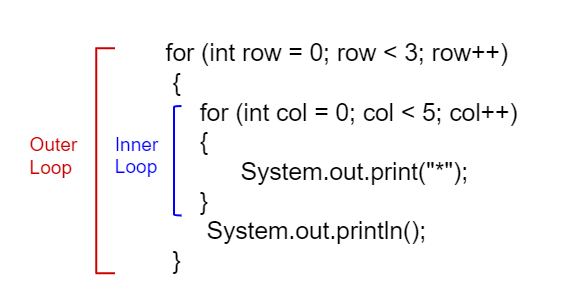
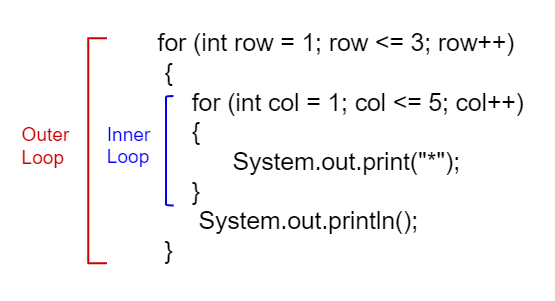
small fixes

Changed region(s): [[0.0306, 0.0897, 0.9495, 0.897], [0.3982, 0.5083, 0.827, 0.598], [0.2757, 0.8073, 0.3369, 0.897]]

diff --git a/_sources/Unit7-ArrayList/topic-7-6-sorting.rst b/_sources/Unit7-ArrayList/topic-7-6-sorting.rst
@@ -285,7 +285,7 @@ To see this executing using the Java Visualizer click on the following `Insertio
         }
       }
 
-You can step through the code above by clicking on the following `Ex-12-5-2 <http://cscircles.cemc.uwaterloo.ca/java_visualize/#code=import+java.util.Arrays%3B%0A++%0A++public+class+SortTest%0A++%7B%0A+++++public+static+void+insertionSort(int%5B%5D+elements)+%0A+++++%7B%0A++++++++for+(int+j+%3D+1%3B+j+%3C+elements.length+-+1%3B+j%2B%2B)+++++++++++++++++++++++//+line+1%0A++++++++%7B%0A+++++++++++int+temp+%3D+elements%5Bj%5D%3B++++++++++++++++++++++++++++++++++++++++++//+line+2%0A+++++++++++int+possibleIndex+%3D+j%3B+++++++++++++++++++++++++++++++++++++++++++//+line+3%0A+++++++++++while+(possibleIndex+%3E+0+%26%26+temp+%3C+elements%5BpossibleIndex+-+1%5D)++//+line+4%0A+++++++++++%7B%0A++++++++++++++elements%5BpossibleIndex%5D+%3D+elements%5BpossibleIndex+-+1%5D%3B++++++++//+line+5%0A++++++++++++++possibleIndex--%3B+%0A+++++++++++%7D%0A+++++++++++elements%5BpossibleIndex%5D+%3D+temp%3B%0A++++++++%7D%0A+++++%7D%0A++++++%0A+++++public+static+void+main(String%5B%5D+args)%0A+++++%7B%0A++++++++int%5B%5D+arr1+%3D+%7B3,+86,+-20,+14,+40%7D%3B%0A++++++++System.out.println(Arrays.toString(arr1))%3B%0A++++++++insertionSort(arr1)%3B%0A++++++++System.out.println(Arrays.toString(arr1))%3B%0A+++++%7D%0A++%7D&mode=display&curInstr=0>`_.
+You can step through the code above by clicking on the following `Visualization <http://cscircles.cemc.uwaterloo.ca/java_visualize/#code=import+java.util.Arrays%3B%0A++%0A++public+class+SortTest%0A++%7B%0A+++++public+static+void+insertionSort(int%5B%5D+elements)+%0A+++++%7B%0A++++++++for+(int+j+%3D+1%3B+j+%3C+elements.length+-+1%3B+j%2B%2B)+++++++++++++++++++++++//+line+1%0A++++++++%7B%0A+++++++++++int+temp+%3D+elements%5Bj%5D%3B++++++++++++++++++++++++++++++++++++++++++//+line+2%0A+++++++++++int+possibleIndex+%3D+j%3B+++++++++++++++++++++++++++++++++++++++++++//+line+3%0A+++++++++++while+(possibleIndex+%3E+0+%26%26+temp+%3C+elements%5BpossibleIndex+-+1%5D)++//+line+4%0A+++++++++++%7B%0A++++++++++++++elements%5BpossibleIndex%5D+%3D+elements%5BpossibleIndex+-+1%5D%3B++++++++//+line+5%0A++++++++++++++possibleIndex--%3B+%0A+++++++++++%7D%0A+++++++++++elements%5BpossibleIndex%5D+%3D+temp%3B%0A++++++++%7D%0A+++++%7D%0A++++++%0A+++++public+static+void+main(String%5B%5D+args)%0A+++++%7B%0A++++++++int%5B%5D+arr1+%3D+%7B3,+86,+-20,+14,+40%7D%3B%0A++++++++System.out.println(Arrays.toString(arr1))%3B%0A++++++++insertionSort(arr1)%3B%0A++++++++System.out.println(Arrays.toString(arr1))%3B%0A+++++%7D%0A++%7D&mode=display&curInstr=0>`_.
 
 
 
@@ -306,8 +306,7 @@ In the Active code windows for Selection sort and Insertion sort above, add in a
 
 .. shortanswer:: challenge7-6-sorting
 
-   Compare the runtimes of selection and insertion sort on the same data. There should be some data on which one performed better than the other. Can you explain why this is? Trace through the code to figure out why. Discuss in pairs or groups.
-   
+   Compare the runtimes of selection and insertion sort on the same data. There should be some data where one performed better than the other. Can you explain why this is? Trace through the code to figure out why. Discuss in pairs or groups.  Using the space provided below, summarize the key discussion points and include a link to your Google document with the table of runtimes.   
 
 Summary
 ---------

diff --git a/_sources/Unit4-Iteration/topic-4-4-nested-loops.rst b/_sources/Unit4-Iteration/topic-4-4-nested-loops.rst
@@ -39,7 +39,7 @@ A **nested loop** has one loop inside of another.  These are typically used for 
     
 .. |Java visualizer| raw:: html
 
-   <a href="http://www.pythontutor.com/visualize.html#code=public%20class%20NestedLoops%0A%7B%0A%20%20%20public%20static%20void%20main%28String%5B%5D%20args%29%0A%20%20%20%7B%0A%20%20%20%20%20%20%20for%20%28int%20row%20%3D%200%3B%20row%20%3C%203%3B%20row%2B%2B%29%0A%20%20%20%20%20%20%20%7B%0A%20%20%20%20%20%20%20%20%20%20%20for%20%28int%20col%20%3D%200%3B%20col%20%3C%205%3B%20col%2B%2B%29%0A%20%20%20%20%20%20%20%20%20%20%20%7B%0A%20%20%20%20%20%20%20%20%20%20%20%20%20%20%20System.out.print%28%22*%22%29%3B%0A%20%20%20%20%20%20%20%20%20%20%20%7D%0A%20%20%20%20%20%20%20%20%20%20%20System.out.println%28%29%3B%0A%20%20%20%20%20%20%20%7D%0A%20%20%20%7D%0A%7D&cumulative=false&curInstr=64&heapPrimitives=nevernest&mode=display&origin=opt-frontend.js&py=java&rawInputLstJSON=%5B%5D&textReferences=false&curInstr=0" target="_blank"  style="text-decoration:underline">Java visualizer</a>
+   <a href="http://www.pythontutor.com/visualize.html#code=public%20class%20NestedLoops%0A%7B%0A%20%20%20public%20static%20void%20main%28String%5B%5D%20args%29%0A%20%20%20%7B%0A%20%20%20%20%20%20%20for%20%28int%20row%20%3D%201%3B%20row%20%3C%3D%203%3B%20row%2B%2B%29%0A%20%20%20%20%20%20%20%7B%0A%20%20%20%20%20%20%20%20%20%20%20for%20%28int%20col%20%3D%201%3B%20col%20%3C%3D%205%3B%20col%2B%2B%29%0A%20%20%20%20%20%20%20%20%20%20%20%7B%0A%20%20%20%20%20%20%20%20%20%20%20%20%20%20%20System.out.print%28%22*%22%29%3B%0A%20%20%20%20%20%20%20%20%20%20%20%7D%0A%20%20%20%20%20%20%20%20%20%20%20System.out.println%28%29%3B%0A%20%20%20%20%20%20%20%7D%0A%20%20%20%7D%0A%7D&cumulative=false&heapPrimitives=nevernest&mode=display&origin=opt-frontend.js&py=java&rawInputLstJSON=%5B%5D&textReferences=false&curInstr=0" target="_blank"  style="text-decoration:underline">Java visualizer</a>
 
 
 |CodingEx| **Coding Exercises**
@@ -57,9 +57,9 @@ What does the following code print out? Watch the code run in this |Java visuali
 
       public static void main(String[] args)
       {
-          for (int row = 0; row < 3; row++)
+          for (int row = 1; row <= 3; row++)
           {
-              for (int col = 0; col < 5; col++)
+              for (int col = 1; col <= 5; col++)
               {
                   System.out.print("*");
               }

diff --git a/_sources/index.rst b/_sources/index.rst
@@ -6,7 +6,7 @@
 AP CS A Java Course - 2019
 ==========================================
 
-Welcome to CS Awesome! It's time to start your journey to learn how to program with Java. This course is adapted from the Runestone Java Review course to follow the 2019 College Board unit ordering and learning objectives. If you are a teacher using this curriculum, please join the |teaching CSAwesome group|.
+Welcome to CS Awesome! It's time to start your journey to learn how to program with Java. This course is adapted from the Runestone Java Review course to follow the 2019 College Board unit ordering and learning objectives. If you are a teacher using this curriculum, please join the |teaching CSAwesome group| which will give you access to teacher resources at |csawesome|.
 
 To make sure the site saves your answers on questions, please click on the person icon at the top to register or login. As you complete lessons, click the "Mark as completed" button at the bottom. Enjoy the course!
 
@@ -108,9 +108,13 @@ Index
 
    <a href="https://groups.google.com/forum/#!forum/teaching-csawesome" target="_blank" style="text-decoration:underline">teaching CSAwesome group</a>   
    
-If you see errors or bugs, please report them with this |errata form|. If you are a teacher who is interested in CS Awesome PDs or community, please fill out this |interest form| and join the |teaching CSAwesome group| which will give you access to lesson plans.
+.. |csawesome| raw:: html
 
-(last revised 11/07/19)
+   <a href="http://csawesome.org" target="_blank" style="text-decoration:underline">csawesome.org</a>   
+   
+If you see errors or bugs, please report them with this |errata form|. If you are a teacher who is interested in CS Awesome PDs or community, please fill out this |interest form| and join the |teaching CSAwesome group| which will give you access to lesson plans at |csawesome|.
+
+(last revised 11/15/19)
 
 © Copyright 2015 Barb Ericson, 2019 revised by Beryl Hoffman (`Mobile CSP Project <http://mobilecsp.org>`_). Created using `Runestone  <http://runestone.academy>`_.
 

diff --git a/_sources/Unit1-Getting-Started/preface.rst b/_sources/Unit1-Getting-Started/preface.rst
@@ -22,7 +22,7 @@ If you see errors or bugs, please report them with this |form|.
 **Acknowledgements**
 
 
-We gratefully acknowledge the use of the Jobe server from the University of Canterbury, New Zealand.  The Java programs in this eBook are actually running on the Jobe server.
+We gratefully acknowledge the use of the Runestone platform and Jobe server run by Brad Miller, and the past use of the Jobe server from the University of Canterbury, New Zealand. 
 
 Special thanks also to the following people that we have collaborated with:
 
@@ -99,6 +99,14 @@ Many others have been involved in the creation of content for the eBook (includi
 
 **License**
 
+.. figure:: https://i.creativecommons.org/l/by-nc-sa/4.0/88x31.png
+   :align: center
+   
+.. |creative commons| raw:: html
+
+   <a href="http://creativecommons.org/licenses/by-nc-sa/4.0/" target="_blank" style="text-decoration:underline">Creative Commons Attribution-NonCommercial-ShareAlike 4.0 International License</a>
+
+This work is licensed under a |creative commons|.
 
 Barbara Ericson `barbarer@umich.edu <mailto://barbarer@umich.edu>`_ 
 2014

diff --git a/_sources/Unit5-Writing-Classes/topic-5-6-writing-methods.rst b/_sources/Unit5-Writing-Classes/topic-5-6-writing-methods.rst
@@ -272,7 +272,7 @@ Methods can also return values of any type back to the calling method. The calli
 
 .. |The Ants Go Marching| raw:: html
 
-   <a href="https://www.lingokids.com/english-for-kids/songs/the-ants-go-marching-song" target="_blank">The Ants Go Marching</a>
+   <a href="https://www.lyrics.com/lyric/5526512/The+Ants+Go+Marching" target="_blank">The Ants Go Marching</a>
 
 Here's another song, |The Ants Go Marching|, that is very similar to the This Old Man song in its repetitive structure. 
 
